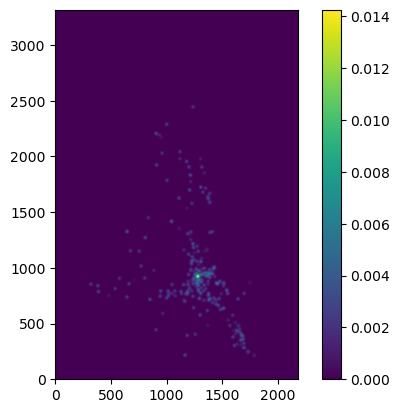
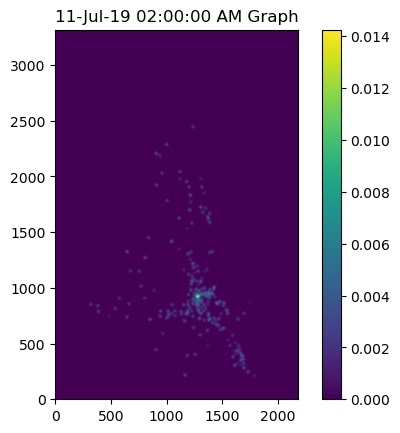
Integrated interface and existing code

diff --git a/main.py b/main.py
@@ -14,10 +14,14 @@ Created on Thu Mar  3 10:42:34 2022
 
 import pandas as pd
 import os
-from datetime import datetime
+import datetime
 import numpy as np
 import matplotlib.pyplot as plt
+# import time
 from scipy.ndimage import gaussian_filter
+from tkinter import Label, Toplevel, StringVar, OptionMenu, Button
+from PIL import Image, ImageTk
+from tkcalendar import Calendar
 
 df = {}
 MW = {}
@@ -210,26 +214,39 @@ def createArray(directory):
             
     
     print("### Creating new Save file ###")
-    np.save("./preprocessedPlots/" + dataTime[0] +  dataTime[1].replace(":","") + "Plot.npy",gauss)
+    np.save("./preprocessedPlots/" + dataTime[0] + "-" + dataTime[1].replace(":","-") + "Plot.npy",gauss)
     
 def loadSaved():
     print("### Loading file ###")
-    return np.load("./preprocessedPlots/" + dataTime[0] +  dataTime[1].replace(":","") + "Plot.npy")
+    return np.load("./preprocessedPlots/" + dataTime[0] + "-" + dataTime[1].replace(":","-") + "Plot.npy")
 
 
 def displayArray(arr):
+    date = str(cal.get_date()).split("/")
+    dateTime = [date[1].zfill(2) + "-" + datetime.datetime.strptime(date[0], "%m").strftime("%b")  + "-" + date[2],hourVar.get() + ":" + minuteVar.get() + ":00 " + ampmVar.get()]
+    
+
     print("### Displaying graph ###")
     plt.clf()
     plt.imshow(arr)
     plt.gca().invert_yaxis()
     plt.colorbar()
+    plt.title(dateTime[0] + " " + dateTime[1] + " Graph")
     plt.savefig('pic.png',bbox_inches='tight')
+    # time.sleep(5000)
+    img2 = ImageTk.PhotoImage(Image.open('.\pic.png'))
+    label.configure(image = img2)
+    label.image = img2
     
 def calculateFractal(arr):
     print()
     
-if __name__ == "__main__":
-    if not os.path.exists("./preprocessedPlots/" + dataTime[0] +  dataTime[1].replace(":","") + "Plot.npy"):
+def loadData():
+    
+    date = str(cal.get_date()).split("/")
+    dateTime = [date[1].zfill(2) + "-" + datetime.datetime.strptime(date[0], "%m").strftime("%b")  + "-" + date[2],hourVar.get() + ":" + minuteVar.get() + ":00 " + ampmVar.get()]
+    
+    if not os.path.exists("./preprocessedPlots/" + dateTime[0] + "-" + dateTime[1].replace(":","-") + "Plot.npy"):
         if skip and subsetData:
             if SelectedData == 0:
                 loadMWData(".\Data\subset")
@@ -248,3 +265,63 @@ if __name__ == "__main__":
     currentArray = loadSaved()
     displayArray(currentArray)
     # calculateFractal(currentArray)
+
+
+def timeUpdate(*args):
+    timeLable.configure(text= hourVar.get() + ":" + minuteVar.get() + ":00 " + ampmVar.get() + " on " + cal.get_date())
+
+window = Toplevel()
+
+
+window.title("Welcome to LikeGeeks app")
+
+
+
+# load image
+photo = ImageTk.PhotoImage(Image.open('.\pic.png'))
+label = Label(window, image = photo)
+label.image = photo
+label.grid(column=0, row=0, rowspan=10)
+
+
+#Top text
+lbl = Label(window, text="Select Date")
+lbl.grid(column=2, row=0)
+
+#Set Calendar
+cal = Calendar(window, selectmode = 'day', year = 2020, month = 7, day = 1)
+cal.grid(column=1, row=1,columnspan=3)
+
+#time picker
+hourLabel =Label(window, text="Hour")
+hourLabel.grid(column=1,row=2)
+minuteLabel =Label(window, text="Minutes")
+minuteLabel.grid(column=2,row=2)
+minuteLabel =Label(window, text="AM/PM")
+minuteLabel.grid(column=3,row=2)
+
+hourVar = StringVar(window)
+hourVar.set("01")
+minuteVar = StringVar(window)
+minuteVar.set("00")
+ampmVar = StringVar(window)
+ampmVar.set("AM")
+
+hourPicker = OptionMenu(window, hourVar , '01','02','03','04','05','06','07','08','09','10','11','12')
+hourPicker.grid(column=1,row=3)
+minutePicker = OptionMenu(window, minuteVar , '00','30')
+minutePicker.grid(column=2,row=3)
+ampnPicker = OptionMenu(window, ampmVar , 'AM','PM')
+ampnPicker.grid(column=3,row=3)
+
+hourVar.trace("w",timeUpdate)
+minuteVar.trace("w",timeUpdate)
+ampmVar.trace("w",timeUpdate)
+
+timeLable =Label(window, text= hourVar.get() + ":" + minuteVar.get() + ":00 " + ampmVar.get() + " on " + cal.get_date())
+timeLable.grid(column=1,row=5,columnspan=3)
+
+# Load button
+btn = Button(window, text="Load Data", command=loadData)
+btn.grid(column=2, row=6)
+window.mainloop()

diff --git a/tkinterTest.py b/tkinterTest.py
@@ -62,4 +62,3 @@ timeLable.grid(column=1,row=5,columnspan=3)
 btn = Button(window, text="Click Me")
 btn.grid(column=2, row=6)
 
-window.mainloop()
